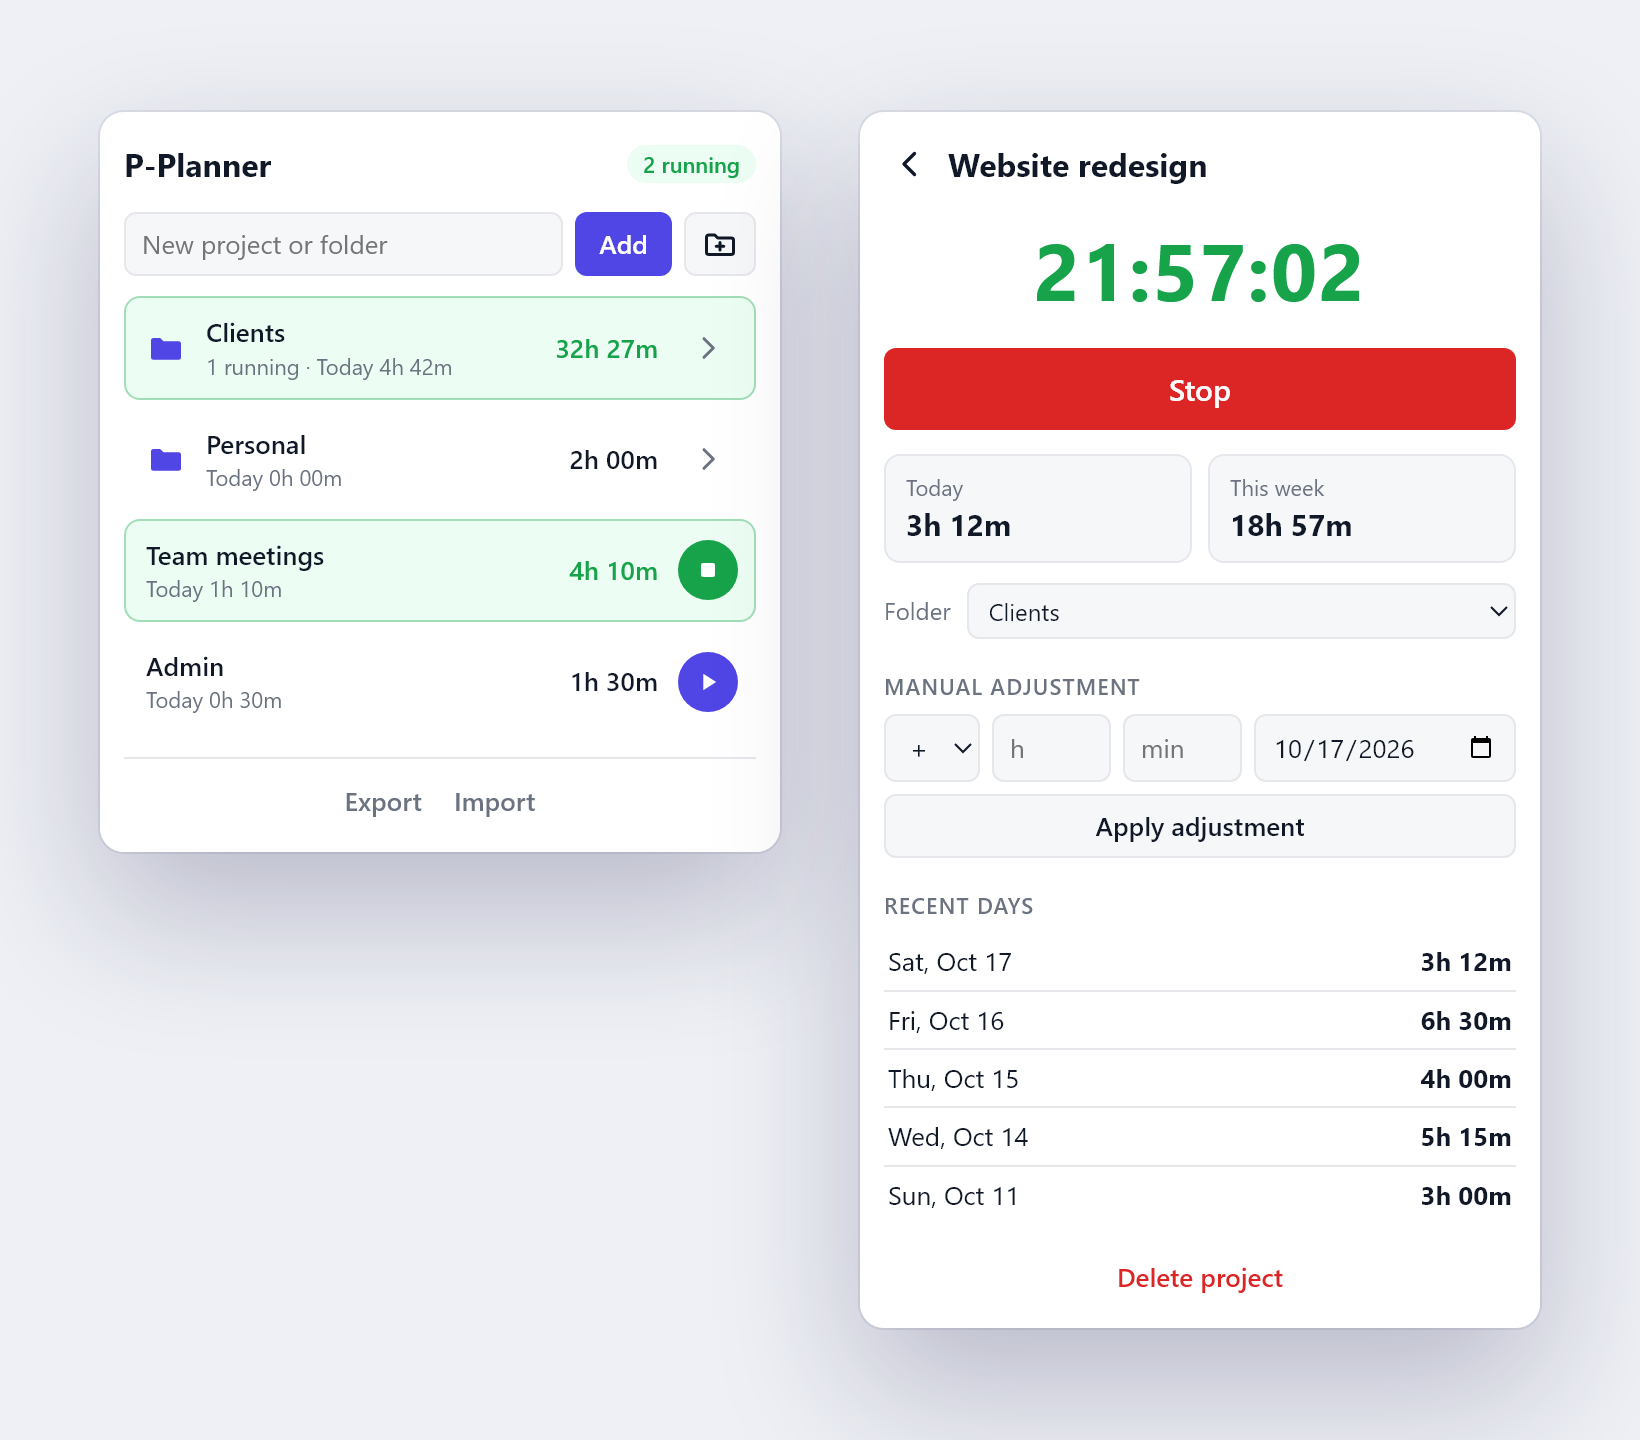
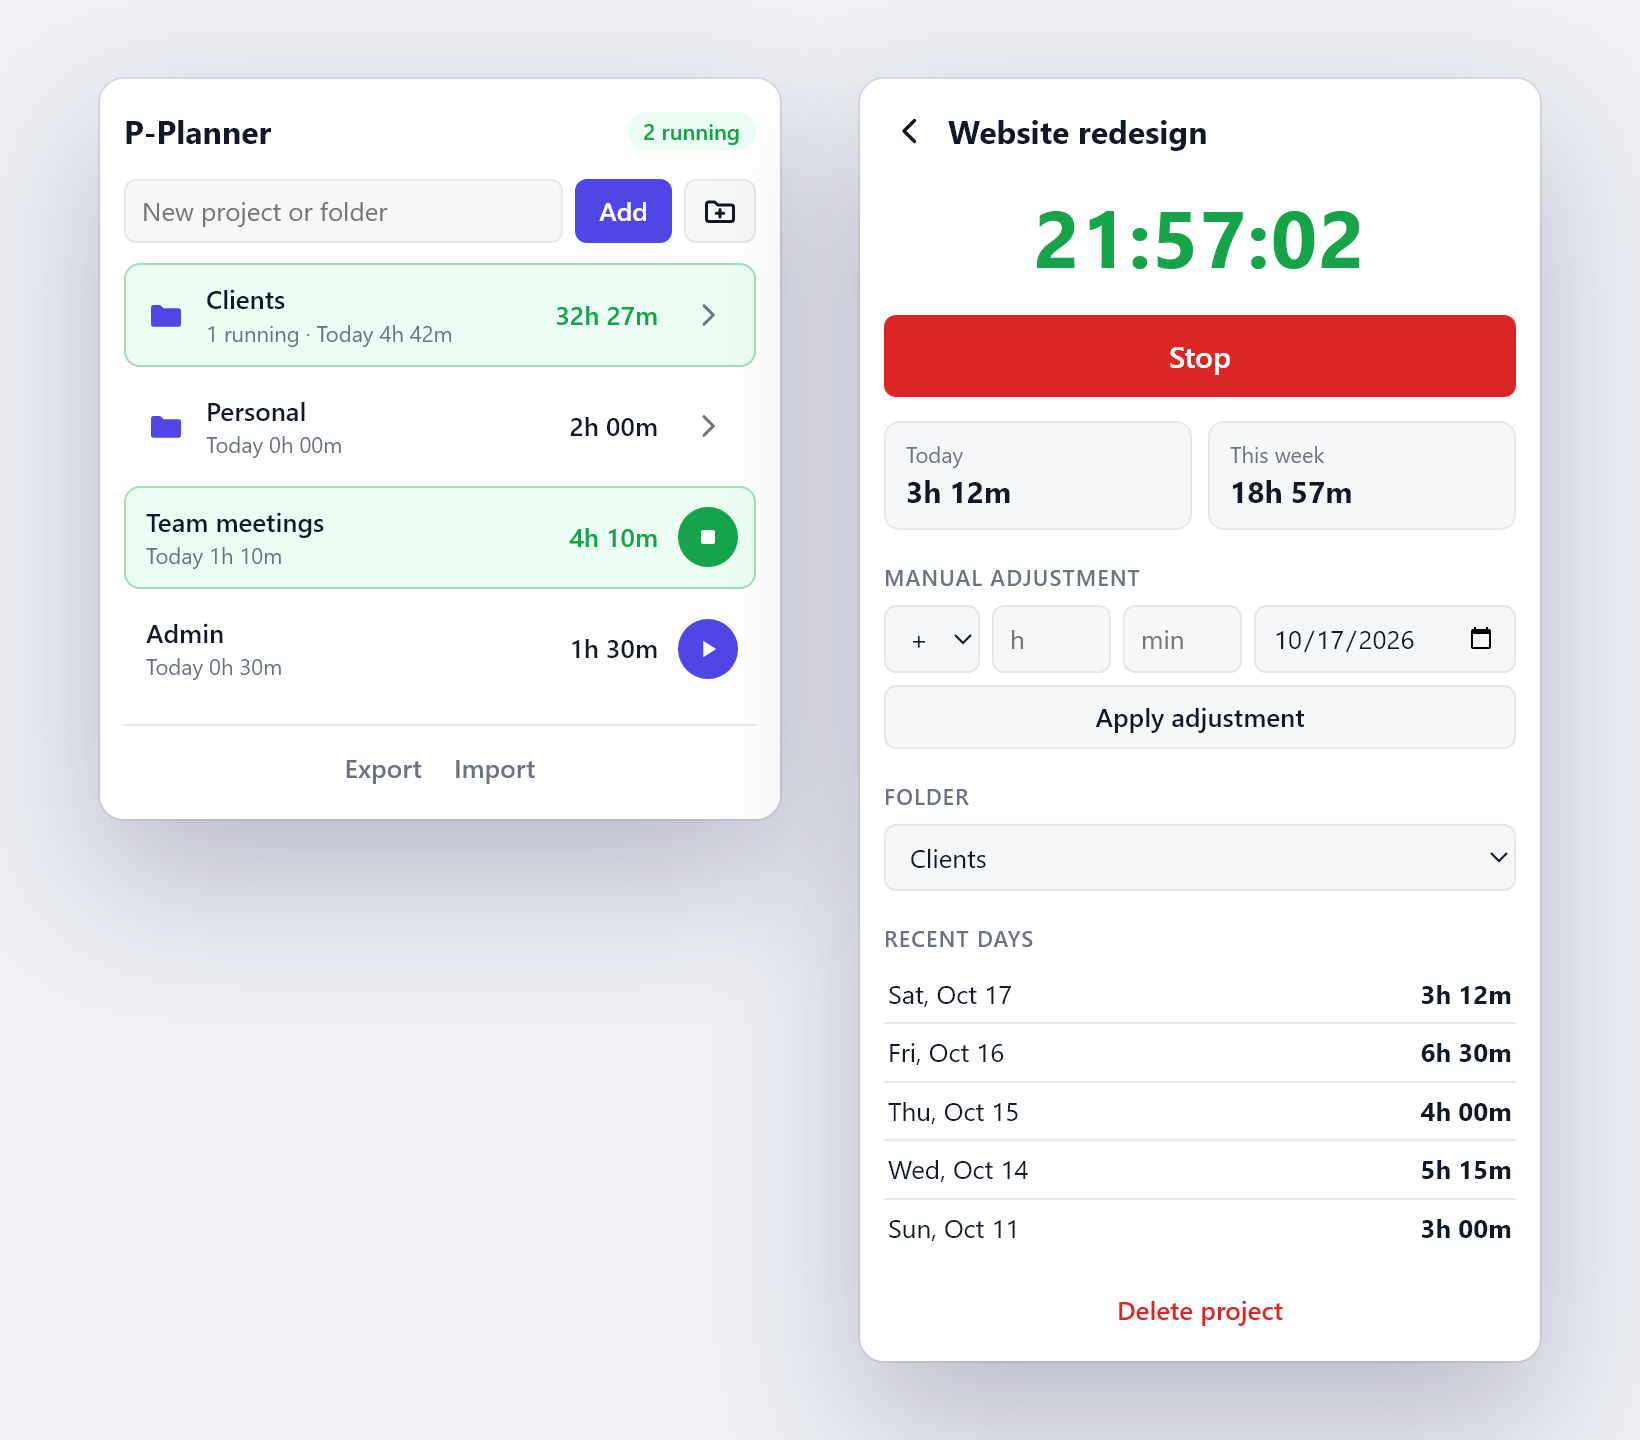
feat: simpler folder view, folder settings button, bump to 0.9.7
- Projects and folders can only be created at the top level; the add form
  is hidden inside folders
- Folder location moved from an always-visible dropdown to a settings
  (gear) button that opens a Location section
- Project detail shows the Folder selector between Manual adjustment and
  Recent days
- Store screenshots and README preview regenerated

diff --git a/extension/popup.js b/extension/popup.js
@@ -13,6 +13,7 @@ let projects = [];
 let folders = [];
 let currentFolder = null; // folder shown in the list view, null = root
 let currentId = null; // project shown in the detail view
+let settingsOpen = false; // folder settings panel
 let ticker = null;
 
 function el(tag, props = {}, ...children) {
@@ -59,6 +60,7 @@ function saveLocation() {
 function openFolder(id) {
   currentFolder = id;
   currentId = null;
+  settingsOpen = false;
   saveLocation();
   render();
 }
@@ -104,9 +106,14 @@ function renderList() {
     title.title = folder ? `${store.folderPath(folders, folder.id)} · click to rename` : '';
   }
   $('folder-info').hidden = !folder;
+  $('f-settings-btn').hidden = !folder;
+  $('f-settings-btn').classList.toggle('active', settingsOpen);
+  $('f-settings-btn').setAttribute('aria-expanded', String(settingsOpen));
+  $('f-settings').hidden = !folder || !settingsOpen;
   if (folder) {
     fillFolderSelect($('f-parent'), folder.parentId, { exclude: store.descendantFolderIds(folders, folder.id), none: 'Top level' });
   }
+  $('new-form').hidden = !!folder; // projects and folders are only created at the top level
   $('root-foot').hidden = !!folder;
   $('folder-foot').hidden = !folder;
 
@@ -115,7 +122,9 @@ function renderList() {
   $('running-pill').textContent = `${running} running`;
 
   $('empty').hidden = subFolders.length + here.length > 0;
-  $('empty').textContent = folder ? 'Empty folder.' : 'No projects yet. Create one above.';
+  $('empty').textContent = folder
+    ? 'Empty folder. Move projects here from their detail view.'
+    : 'No projects yet. Create one above.';
 
   const folderRows = subFolders.map((f) => {
     const t = store.folderTotals(f.id, projects, folders);
@@ -287,7 +296,7 @@ $('new-form').addEventListener('submit', (e) => {
   const name = newName();
   if (!name) return;
   run(async () => {
-    await store.createProject(name, currentFolder);
+    await store.createProject(name);
     $('new-name').value = '';
     await refresh();
   });
@@ -297,7 +306,7 @@ $('new-folder').addEventListener('click', () => {
   const name = newName();
   if (!name) return;
   run(async () => {
-    await store.createFolder(name, currentFolder);
+    await store.createFolder(name);
     $('new-name').value = '';
     await refresh();
   });
@@ -327,11 +336,19 @@ $('l-title').addEventListener('click', () => {
   inlineRename($('l-title'), (name) => store.renameFolder(id, name));
 });
 
+$('f-settings-btn').addEventListener('click', () => {
+  settingsOpen = !settingsOpen;
+  render();
+});
+
 $('f-parent').addEventListener('change', (e) => {
   const id = currentFolder;
+  const parent = e.target.value || null;
   run(async () => {
-    await store.moveFolder(id, e.target.value || null);
+    await store.moveFolder(id, parent);
+    settingsOpen = false;
     await refresh();
+    toast(`Moved to ${parent ? store.folderPath(folders, parent) : 'top level'}`);
   });
 });
 

diff --git a/extension/popup.html b/extension/popup.html
@@ -13,6 +13,9 @@
       </button>
       <h1 id="l-title">P-Planner</h1>
       <span id="running-pill" class="pill" hidden></span>
+      <button id="f-settings-btn" class="icon" type="button" title="Folder settings" aria-label="Folder settings" aria-expanded="false" hidden>
+        <svg viewBox="0 0 24 24" width="18" height="18" fill="none" stroke="currentColor" stroke-width="2" stroke-linecap="round" stroke-linejoin="round" aria-hidden="true"><circle cx="12" cy="12" r="3"/><path d="M19.4 15a1.65 1.65 0 0 0 .33 1.82l.06.06a2 2 0 1 1-2.83 2.83l-.06-.06a1.65 1.65 0 0 0-1.82-.33 1.65 1.65 0 0 0-1 1.51V21a2 2 0 1 1-4 0v-.09A1.65 1.65 0 0 0 9 19.4a1.65 1.65 0 0 0-1.82.33l-.06.06a2 2 0 1 1-2.83-2.83l.06-.06a1.65 1.65 0 0 0 .33-1.82 1.65 1.65 0 0 0-1.51-1H3a2 2 0 1 1 0-4h.09A1.65 1.65 0 0 0 4.6 9a1.65 1.65 0 0 0-.33-1.82l-.06-.06a2 2 0 1 1 2.83-2.83l.06.06a1.65 1.65 0 0 0 1.82.33H9a1.65 1.65 0 0 0 1-1.51V3a2 2 0 1 1 4 0v.09a1.65 1.65 0 0 0 1 1.51 1.65 1.65 0 0 0 1.82-.33l.06-.06a2 2 0 1 1 2.83 2.83l-.06.06a1.65 1.65 0 0 0-.33 1.82V9a1.65 1.65 0 0 0 1.51 1H21a2 2 0 1 1 0 4h-.09a1.65 1.65 0 0 0-1.51 1z"/></svg>
+      </button>
     </header>
 
     <div id="folder-info" hidden>
@@ -21,7 +24,10 @@
         <div><span>Today</span><strong id="f-today">0h 00m</strong></div>
         <div><span>This week</span><strong id="f-week">0h 00m</strong></div>
       </div>
-      <label class="move">Inside <select id="f-parent"></select></label>
+      <div id="f-settings" class="settings" hidden>
+        <h2>Location</h2>
+        <select id="f-parent" class="full" aria-label="Location"></select>
+      </div>
     </div>
 
     <form id="new-form" class="row">
@@ -58,7 +64,6 @@
       <div><span>Today</span><strong id="d-today">0h 00m</strong></div>
       <div><span>This week</span><strong id="d-week">0h 00m</strong></div>
     </div>
-    <label class="move">Folder <select id="d-folder"></select></label>
 
     <h2>Manual adjustment</h2>
     <form id="manual-form" class="manual">
@@ -71,6 +76,9 @@
       <input id="m-date" type="date" aria-label="Date">
       <button type="submit">Apply adjustment</button>
     </form>
+
+    <h2>Folder</h2>
+    <select id="d-folder" class="full" aria-label="Folder"></select>
 
     <h2>Recent days</h2>
     <ul id="d-days" class="days"></ul>

diff --git a/extension/popup.css b/extension/popup.css
@@ -161,8 +161,9 @@ button.secondary:hover { border-color: var(--accent); color: var(--accent); }
 #folder-info .stats { margin-top: 0; }
 .stats.three { grid-template-columns: repeat(3, 1fr); }
 
-.move { display: flex; align-items: center; gap: 8px; margin-top: 10px; font-size: 12px; color: var(--muted); }
-.move select { flex: 1; padding: 4px 6px; font-size: 12px; color: var(--fg); }
+button.icon.active { background: var(--card); color: var(--accent); }
+.settings h2 { margin-top: 12px; }
+select.full { width: 100%; }
 
 .empty { margin: 28px 0; text-align: center; color: var(--muted); }
 
